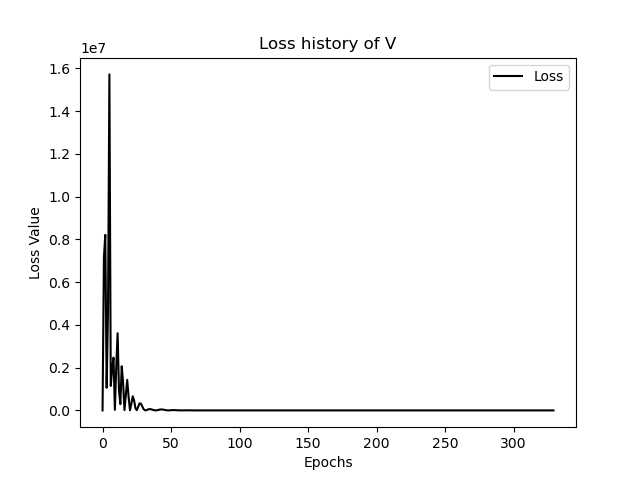
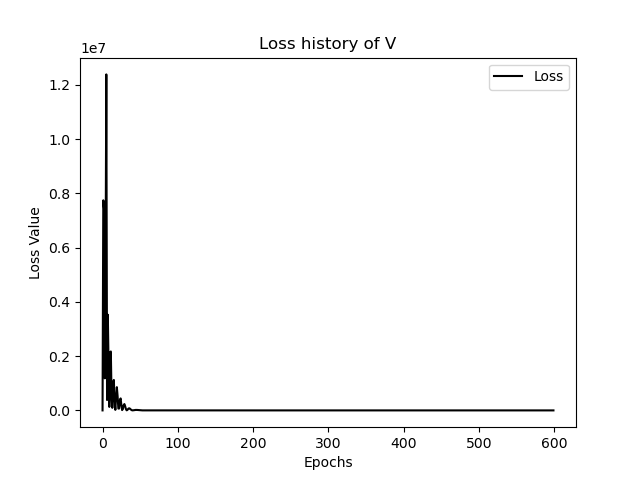
fnn_v.py updated and v vel retrained

diff --git a/FNN/FNN_V.py b/FNN/FNN_V.py
@@ -11,6 +11,9 @@ Xia, S      24.12.12    Simpop.cn   v1.0
 import torch
 import torch.nn as nn
 
+from pathlib import Path
+import h5py
+
 import h5py
 import pandas, numpy, random
 import matplotlib.pyplot as plt
@@ -21,6 +24,10 @@ import numpy as np
 
 from pathlib import Path
 from torch.utils.data import Dataset
+
+from idxList import idxList
+from idxList import numOfAllCases
+
 
 class FSimDataset(Dataset):
   def __init__(self, file:Path, caseList:list):
@@ -92,16 +99,14 @@ class FSimDataset(Dataset):
     print("Todo: .plotVTK(...)")
     pass
 
-# split the data, 27 = 22 + 5
-numOfCases = 27
+# split the data, 49 = 40 + 9
+numOfCases = numOfAllCases
 ratioTest = 0.2
 
 sizeOfTestSet = np.int64(numOfCases * ratioTest)
 
 np.random.seed(42)
 permut = np.random.permutation(numOfCases)
-
-from idxList import idxList
 
 listTestCase = []
 for i in permut[:sizeOfTestSet]:
@@ -112,9 +117,6 @@ listTrainCase = []
 for i in permut[sizeOfTestSet:]:
   theCase = "C" + "%03d"%idxList[i]
   listTrainCase.append(theCase)
-
-from pathlib import Path
-import h5py
 
 filePathH5 = Path("../FSCases/FSHDF/MatrixData.h5")
 
@@ -428,9 +430,9 @@ R.saveLossHistory2PNG()
 fsDataset_test = FSimDataset(filePathH5, listTestCase)
 
 #len_test = fsDataset_test.numCases
-# for C025
-inp, uField, coords = fsDataset_test[0]
-#print(type(inp), type(pField))
+# for C034
+inp, vField, coords = fsDataset_test[0]
+#print(type(inp), type(vField))
 
 #outPresTorch = R.forward(inp)
 
